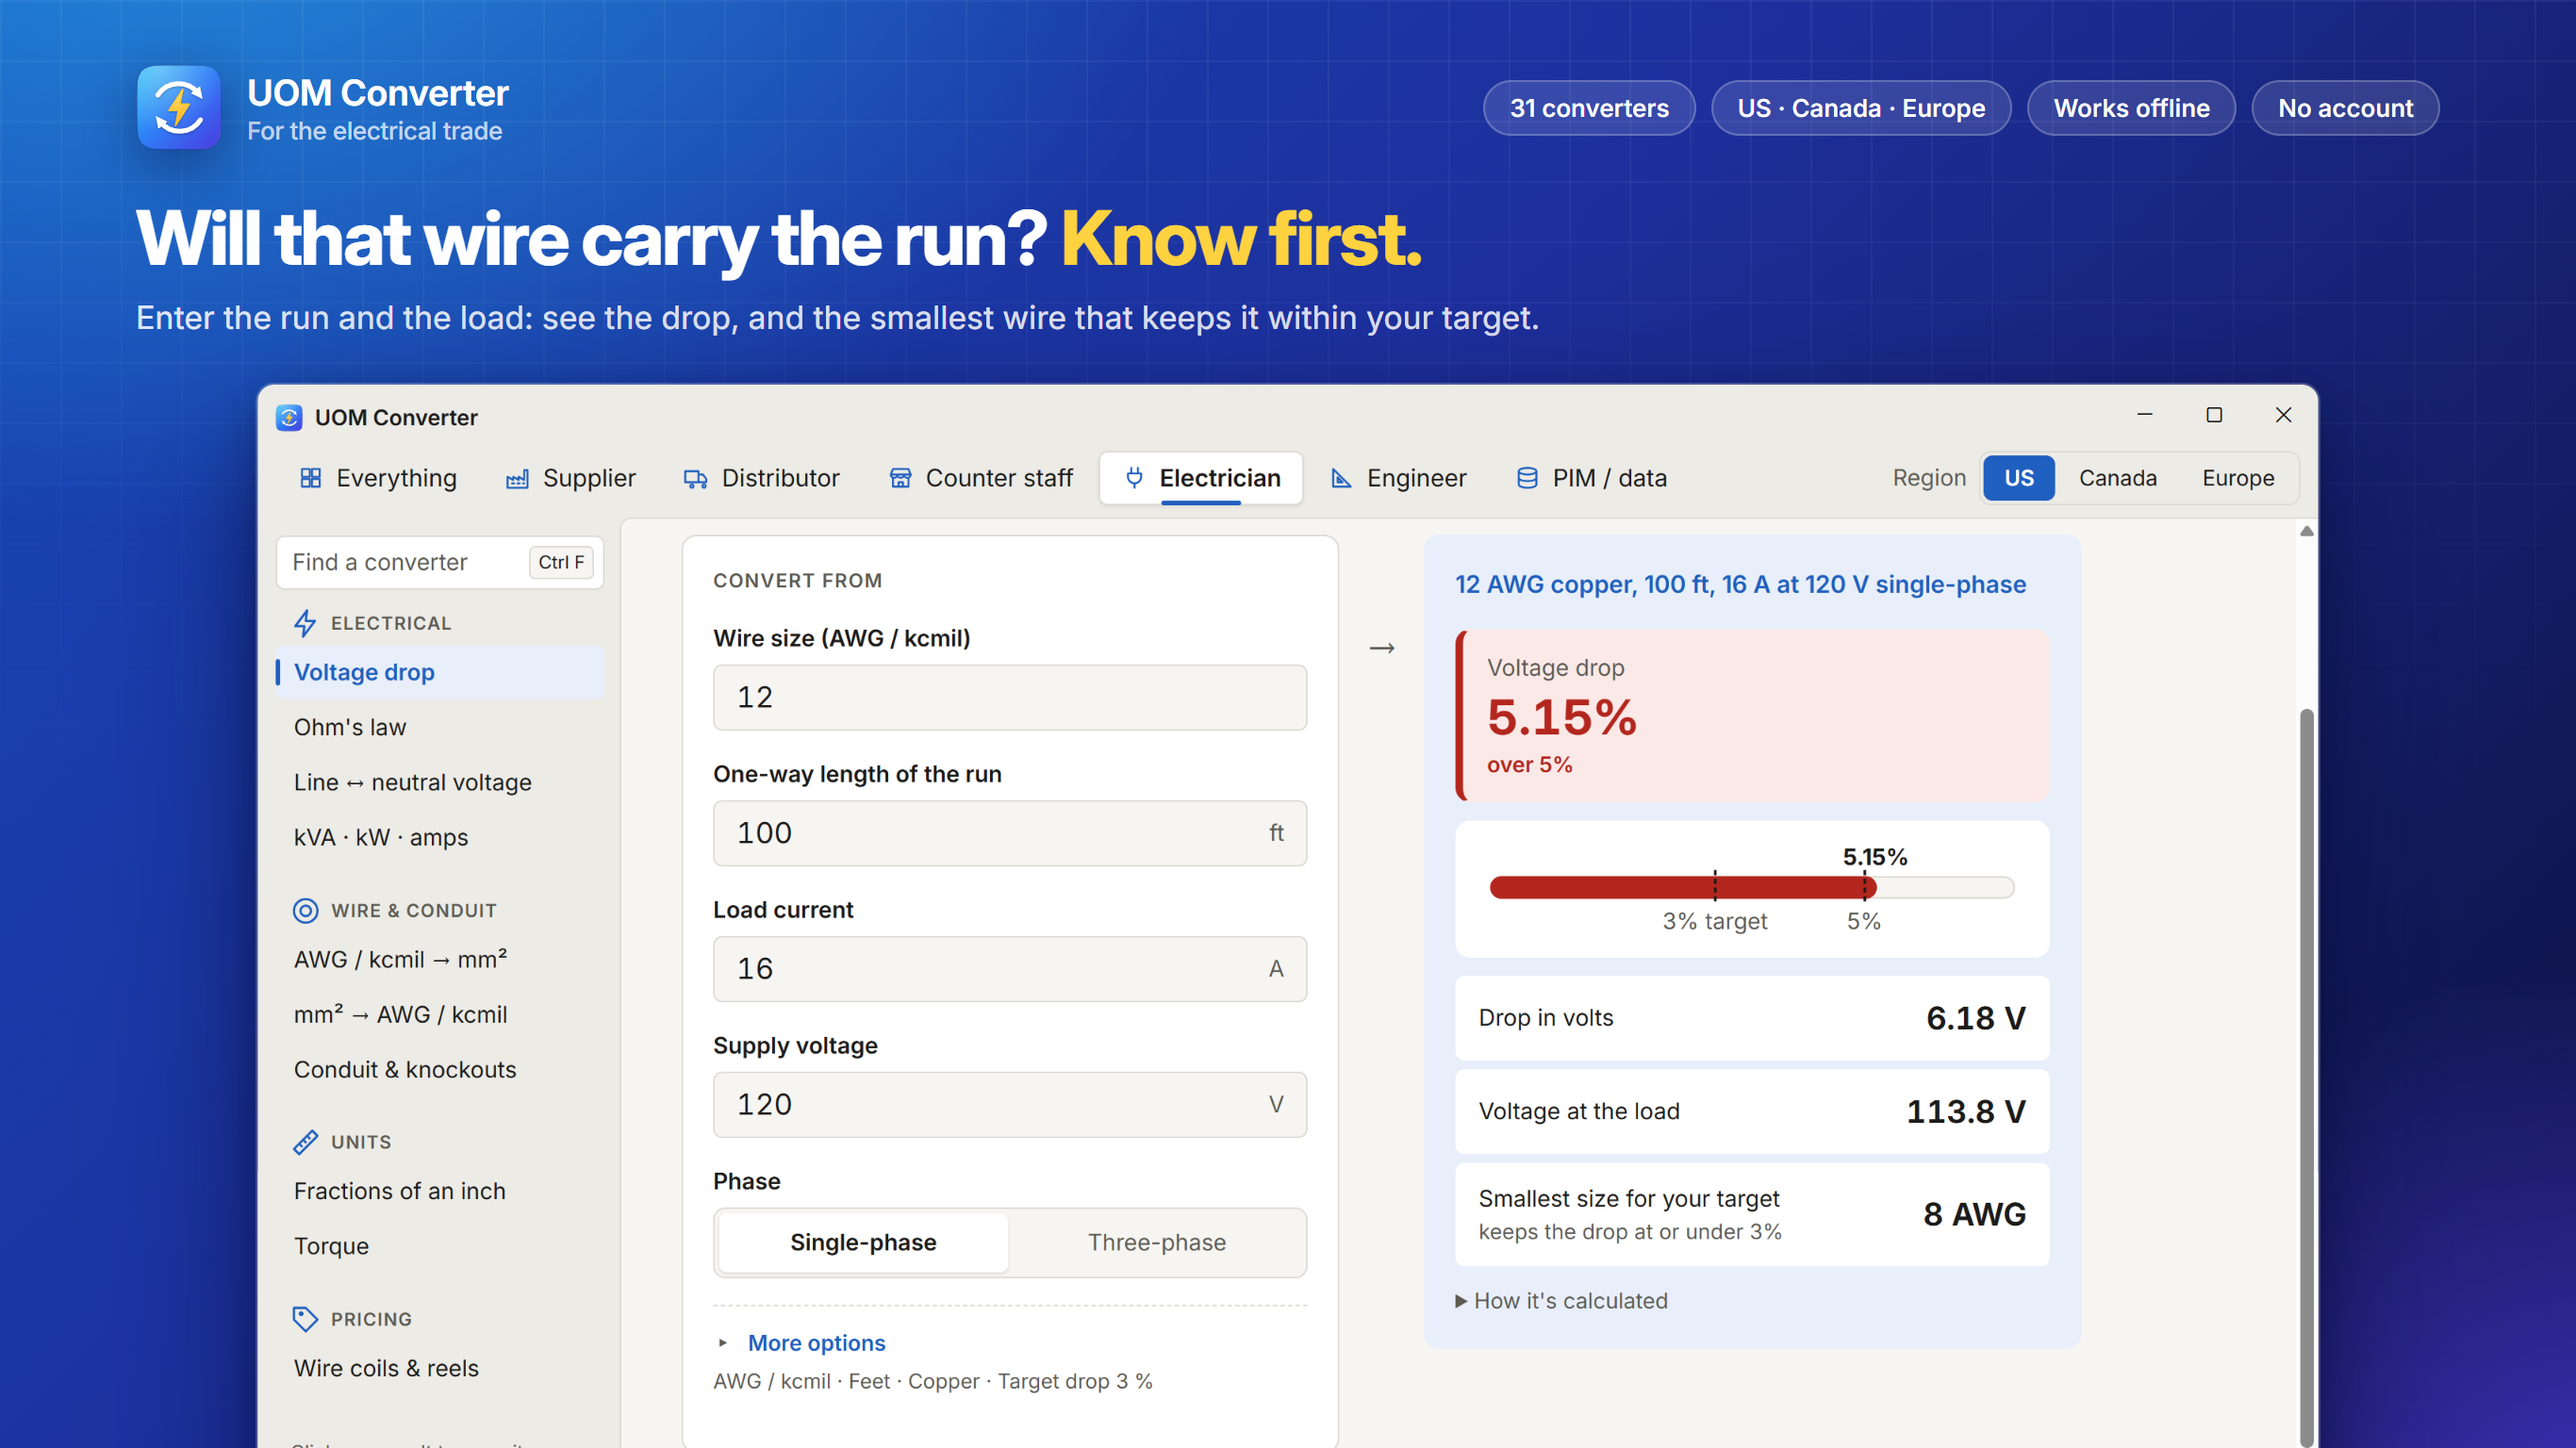
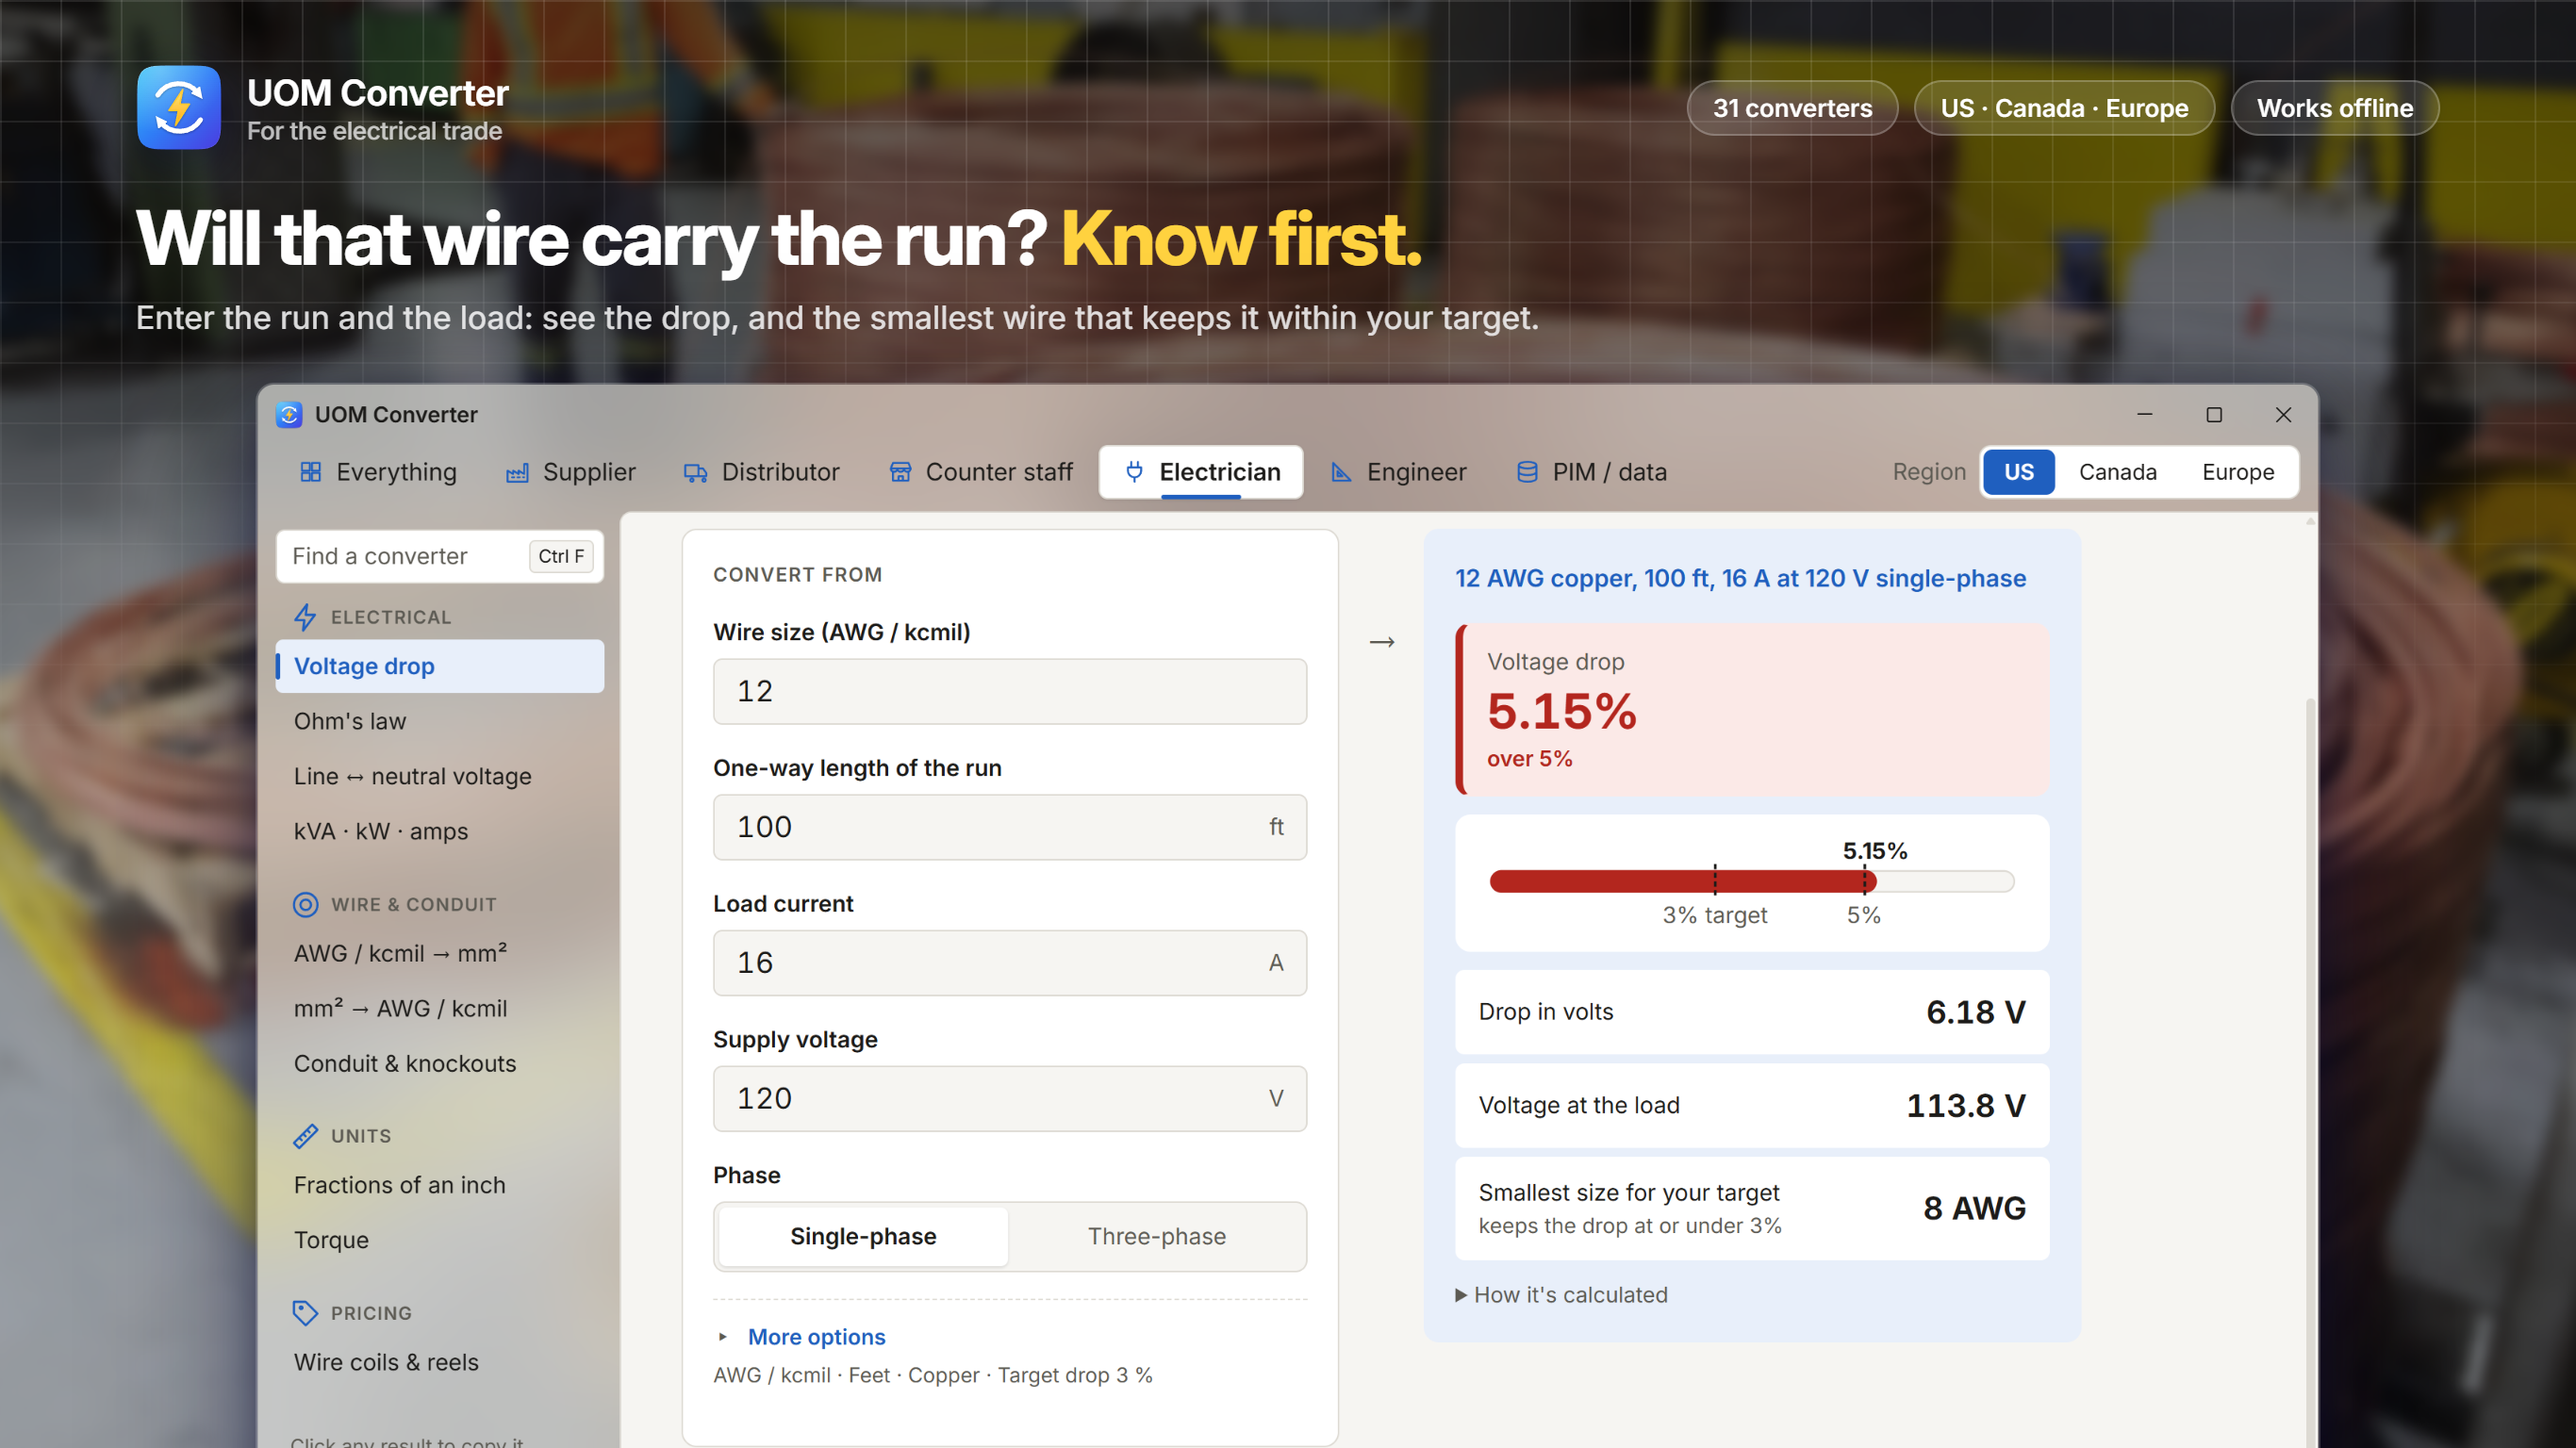
Store images: copper-coil photo backdrop, translucent app frame, three fact pills
- base.jpg (3200 px) behind the screenshots, box and poster art: blurred, shaded behind the
  text, under the measuring grid (now its own sharp layer, at 10% white)
- Screenshots capture the app with its desktop style, so the frame is see-through as in the
  real window, and shots.html blurs the backdrop behind it like Acrylic
- Box art crops to the coils on the right of the photo
- Fact pills: converter count, regions, works offline

diff --git a/apps/windows/store/brand.css b/apps/windows/store/brand.css
@@ -1,6 +1,6 @@
-/* The look shared by the Store's designed images (shots.html, logo.html): the icon's azure-to-
-   indigo tile as the background, its gold bolt as the accent, and a faint measuring grid. Sizes
-   are relative, so the same background fits the wide promo and the square and tall logos. */
+/* The look shared by the Store's designed images (shots.html, logo.html): a photo of copper wire coils under a
+   faint measuring grid as the background, and the icon's gold bolt as the accent. Sizes are relative, so the same background fits the wide
+   screenshots and the square and tall logos. */
 
 @font-face {
   font-family: "Inter Variable";
@@ -10,7 +10,6 @@
 
 :root {
   --bolt: #ffd23f;
-  --ink: #0d0f3a;
 }
 
 * { box-sizing: border-box; }
@@ -20,19 +19,30 @@ body {
   position: relative;
   font-family: "Inter Variable", "Segoe UI", sans-serif;
   color: #fff;
-  background:
-    radial-gradient(66% 78% at 8% -10%, rgba(47, 196, 247, 0.55), transparent 60%),
-    radial-gradient(51% 68% at 105% 110%, rgba(75, 59, 224, 0.9), transparent 65%),
-    linear-gradient(135deg, #1648b8 0%, #1d2f9c 45%, var(--ink) 100%);
+  background: #140d09;
 }
 
-/* The trade's graph paper. Each page fades it out where its content sits, with mask-image. */
+/* The trade itself: coils of copper wire (base.jpg), blurred and darkened so text and the app stay readable.
+   Each page sets --shade, a darker layer over the photo where its own text sits, and --focus, the part of the
+   photo it shows. The inset hides the blur's soft edges. */
 body::before {
+  content: "";
+  position: absolute;
+  inset: -24px;
+  background: var(--shade, none), url(base.jpg) var(--focus, center) / cover no-repeat;
+  filter: blur(var(--blur, 4px)) brightness(0.8) saturate(1.05);
+}
+
+/* The trade's graph paper, sharp over the blurred photo. Each page fades it out where its content sits, with
+   mask-image. */
+body::after {
   content: "";
   position: absolute;
   inset: 0;
   background-image:
-    linear-gradient(rgba(255, 255, 255, 0.05) 1px, transparent 1px),
-    linear-gradient(90deg, rgba(255, 255, 255, 0.05) 1px, transparent 1px);
+    linear-gradient(rgba(255, 255, 255, 0.1) 1px, transparent 1px),
+    linear-gradient(90deg, rgba(255, 255, 255, 0.1) 1px, transparent 1px);
   background-size: 32px 32px;
 }
+/* The page's content above the photo and the grid. */
+body > * { z-index: 1; }

diff --git a/apps/windows/store/shots.html b/apps/windows/store/shots.html
@@ -10,8 +10,11 @@
     <style>
       html, body { width: 1366px; height: 768px; }
       /* The grid fades out behind the app. */
-      body::before { mask-image: linear-gradient(180deg, #000 0%, rgba(0, 0, 0, 0.5) 30%, transparent 55%); }
+      /* Darker across the top, under the headline; the coils show around the app. */
+      body { --shade: linear-gradient(180deg, rgba(10, 6, 4, 0.6) 0%, rgba(10, 6, 4, 0.35) 30%, transparent 60%); --focus: 50% 65%; }
 
+      /* The grid fades out behind the app. */
+      body::after { mask-image: linear-gradient(180deg, #000 0%, rgba(0, 0, 0, 0.5) 30%, transparent 55%); }
       .top { position: absolute; left: 72px; right: 72px; top: 34px; display: flex; align-items: center; justify-content: space-between; }
       .brand { display: flex; align-items: center; gap: 13px; }
       .brand img { width: 46px; height: 46px; filter: drop-shadow(0 8px 14px rgba(8, 10, 60, 0.45)); }
@@ -58,6 +61,8 @@
           0 36px 90px rgba(5, 8, 50, 0.6),
           0 10px 26px rgba(5, 8, 50, 0.38);
       }
+      /* Acrylic: the app's frame is see-through (its `desktop` style), and Windows blurs what's behind the window. */
+      .window { backdrop-filter: blur(30px) saturate(1.3); }
       .window > img { display: block; width: 1366px; }
       /* The minimize, maximize and close buttons Windows draws over the page's own title bar. */
       .caption-buttons { position: absolute; top: 0; right: 0; display: flex; color: #1c1b19; }
@@ -77,7 +82,7 @@
     <script>
       // The same on every shot: how much it covers, where, and what it doesn't need. render.cjs fills in the count
       // from @uom/converters.
-      const FACTS = ['<span id="count">Every converter</span>', "US · Canada · Europe", "Works offline", "No account"];
+      const FACTS = ['<span id="count">Every converter</span>', "US · Canada · Europe", "Works offline"];
 
       // Each shot, in upload order: the need it meets in the customer's words (the last phrase in the bolt colour),
       // how the app meets it, and the app as it opens on `query` (role, region and converter; each converter opens on

diff --git a/apps/windows/store/logo.html b/apps/windows/store/logo.html
@@ -15,7 +15,12 @@
         text-align: center;
       }
       /* The grid fades out from the edges toward the icon. */
-      body::before { mask-image: radial-gradient(closest-side, transparent 30%, #000 100%); }
+      /* Darker behind the icon and name; the coil in the photo frames them. */
+      body { --shade: radial-gradient(closest-side, rgba(10, 6, 4, 0.45), transparent); --focus: 62% 60%; --blur: 0.6vmin; }
+      /* The square box art shows more of the photo's width: keep to the coils on the right, clear of the worker. */
+      /* The grid fades out from the edges toward the icon. */
+      body::after { mask-image: radial-gradient(closest-side, transparent 30%, #000 100%); }
+      @media (aspect-ratio: 1) { body { --focus: 100% 60%; } }
 
       img {
         position: relative;
